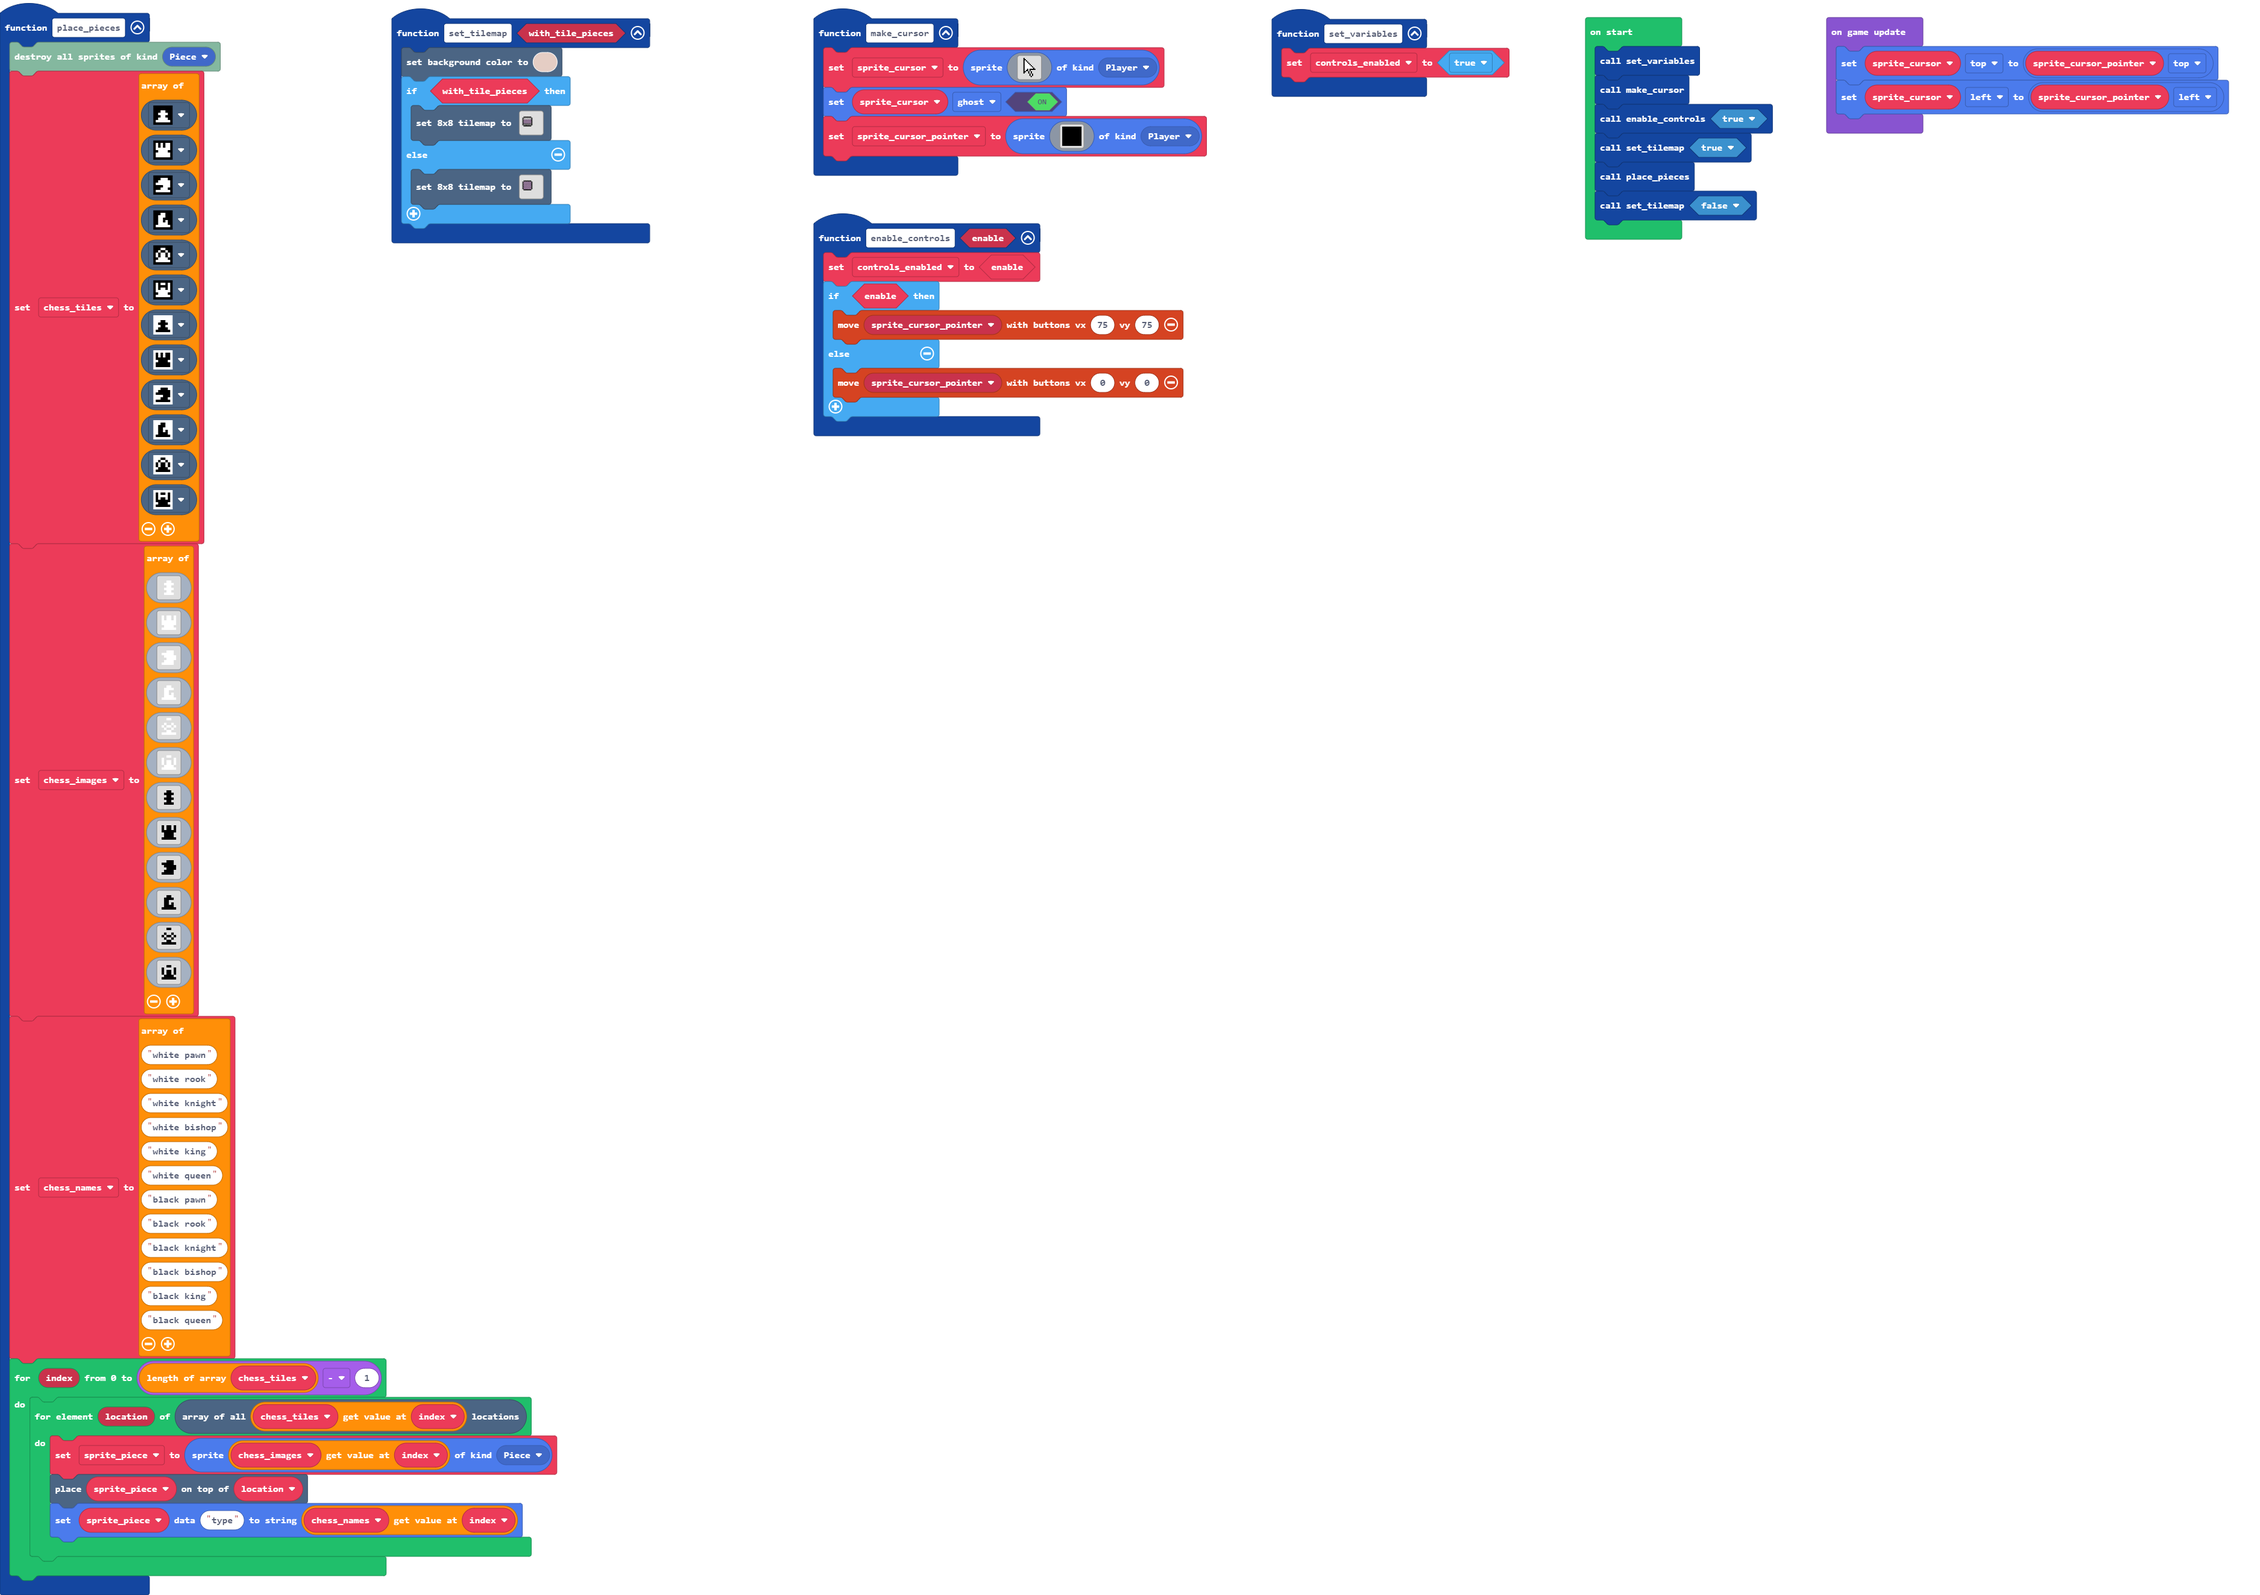
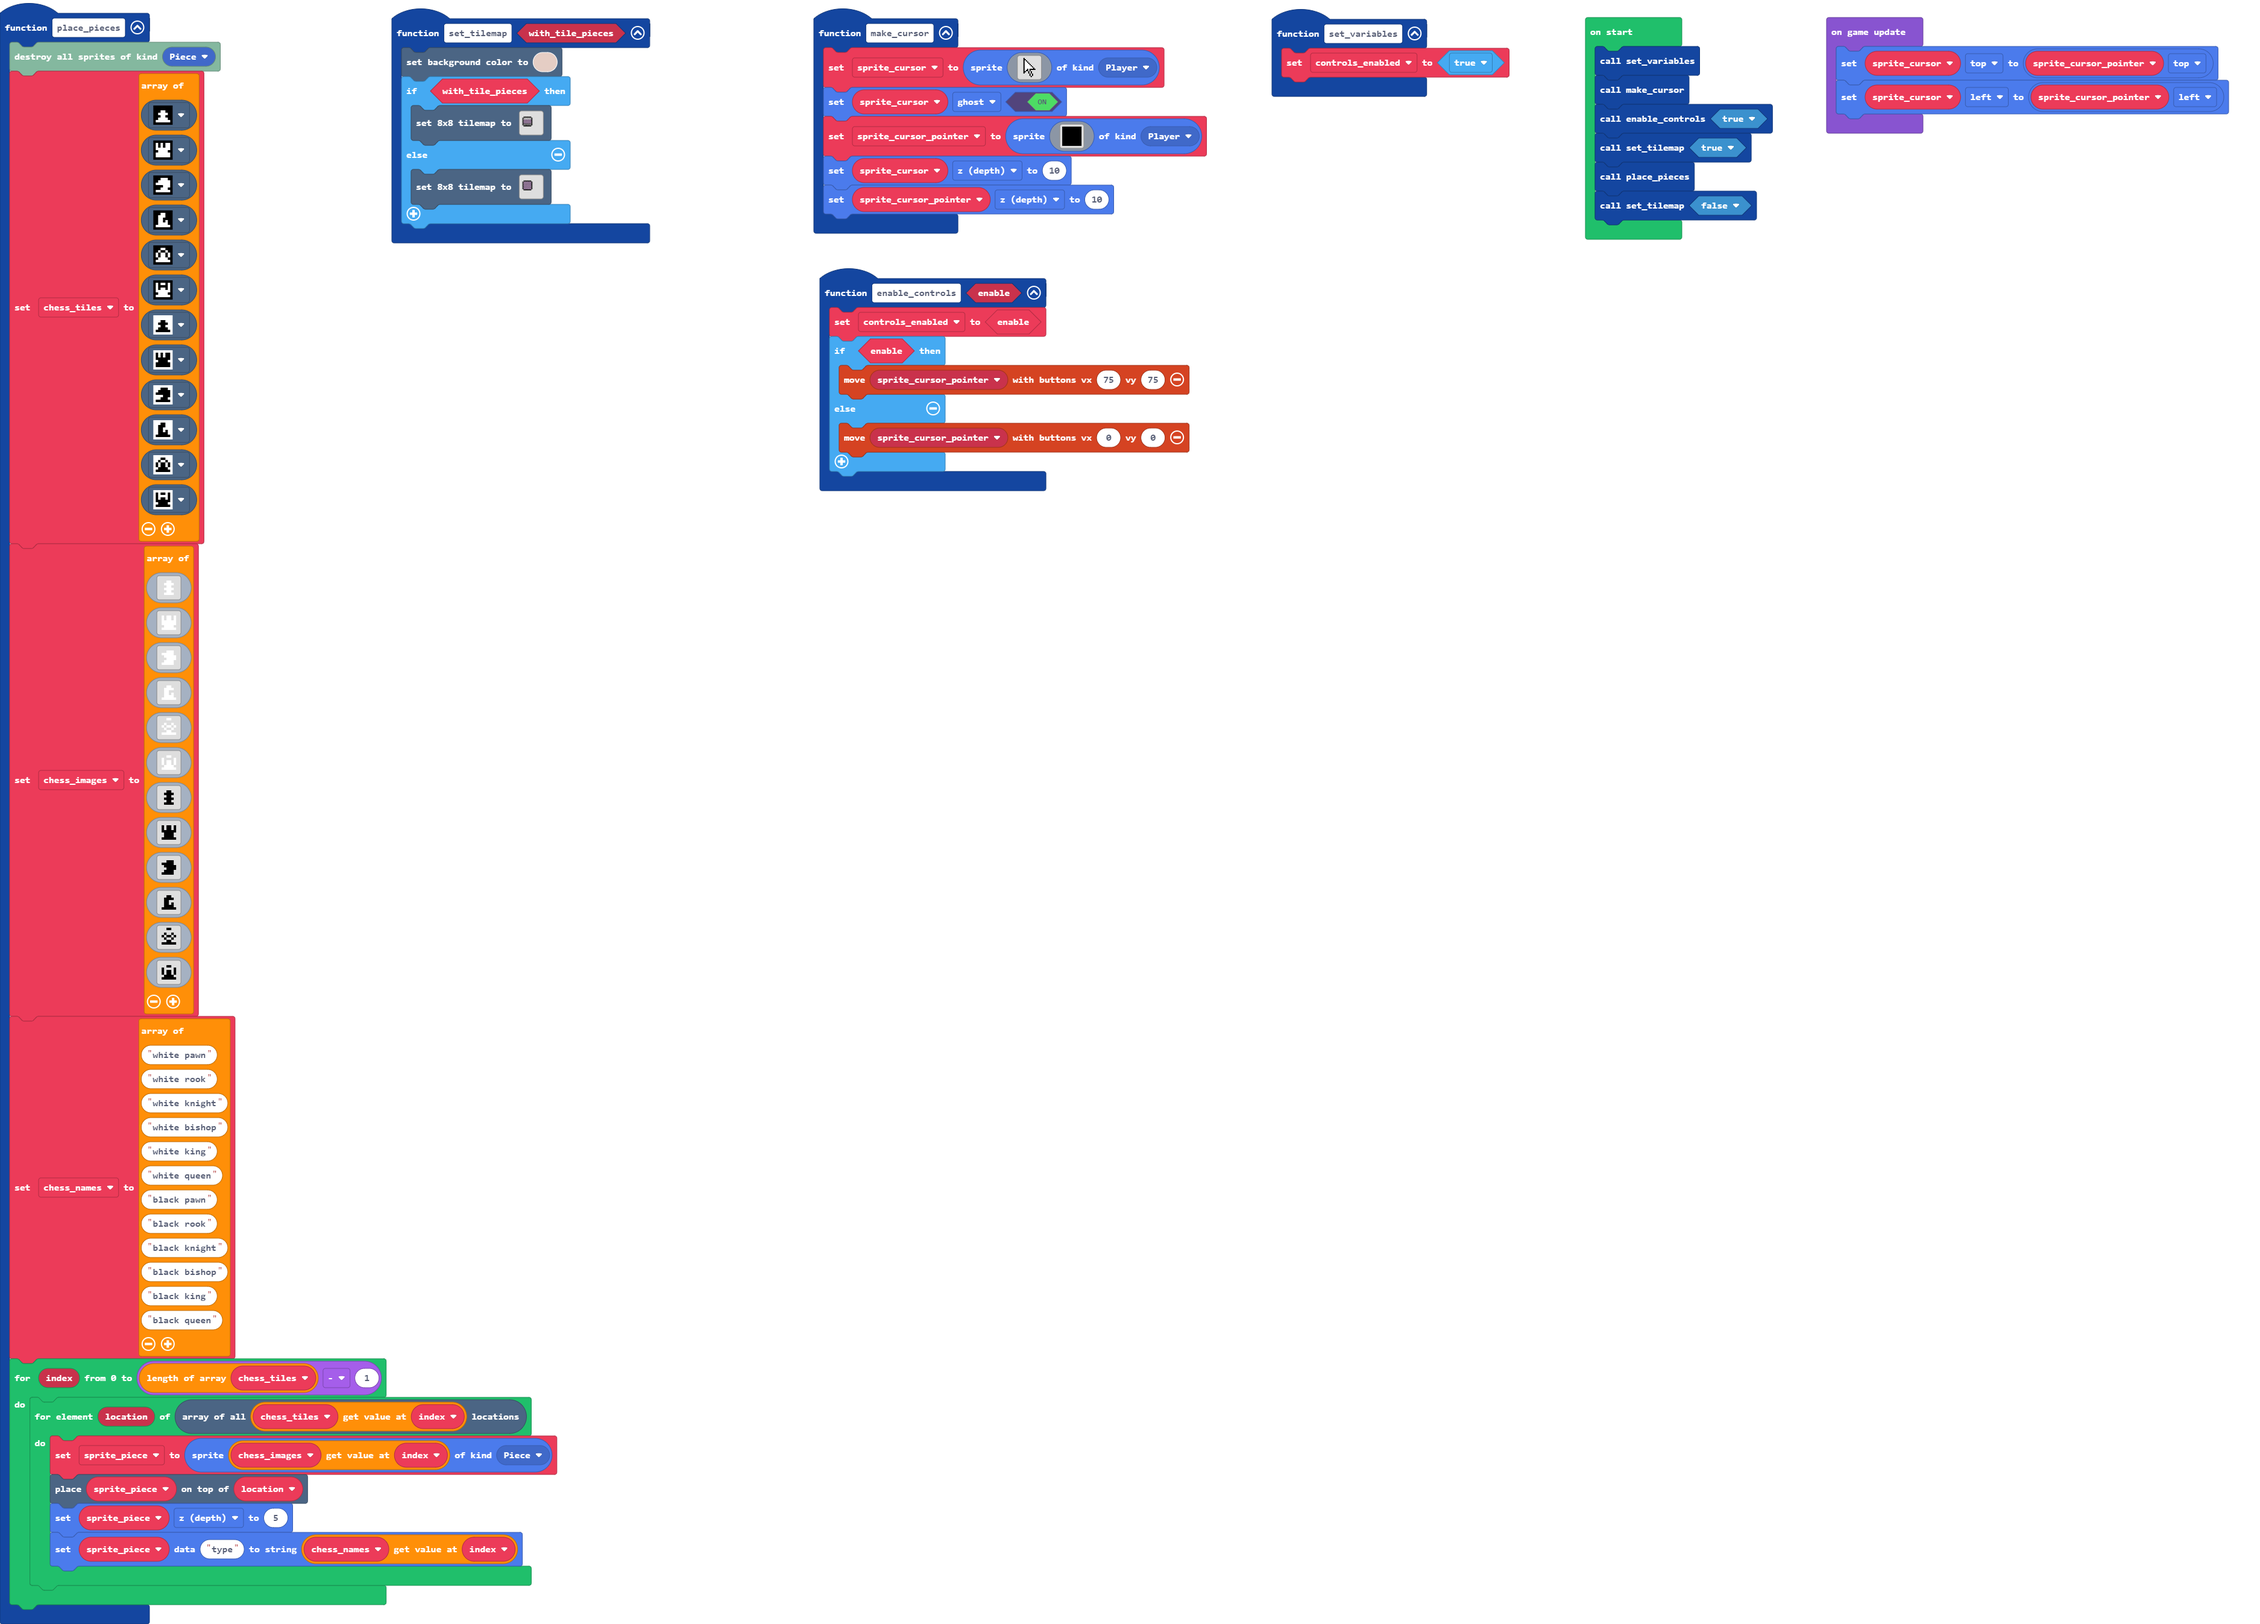
Set Z indexes

diff --git a/main.ts b/main.ts
@@ -60,6 +60,7 @@ function place_pieces () {
         for (let location of tiles.getTilesByType(chess_tiles[index])) {
             sprite_piece = sprites.create(chess_images[index], SpriteKind.Piece)
             tiles.placeOnTile(sprite_piece, location)
+            sprite_piece.z = 5
             sprites.setDataString(sprite_piece, "type", chess_names[index])
         }
     }
@@ -87,6 +88,8 @@ function make_cursor () {
     sprite_cursor_pointer = sprites.create(img`
         f 
         `, SpriteKind.Player)
+    sprite_cursor.z = 10
+    sprite_cursor_pointer.z = 10
 }
 function enable_controls (enable: boolean) {
     controls_enabled = enable
